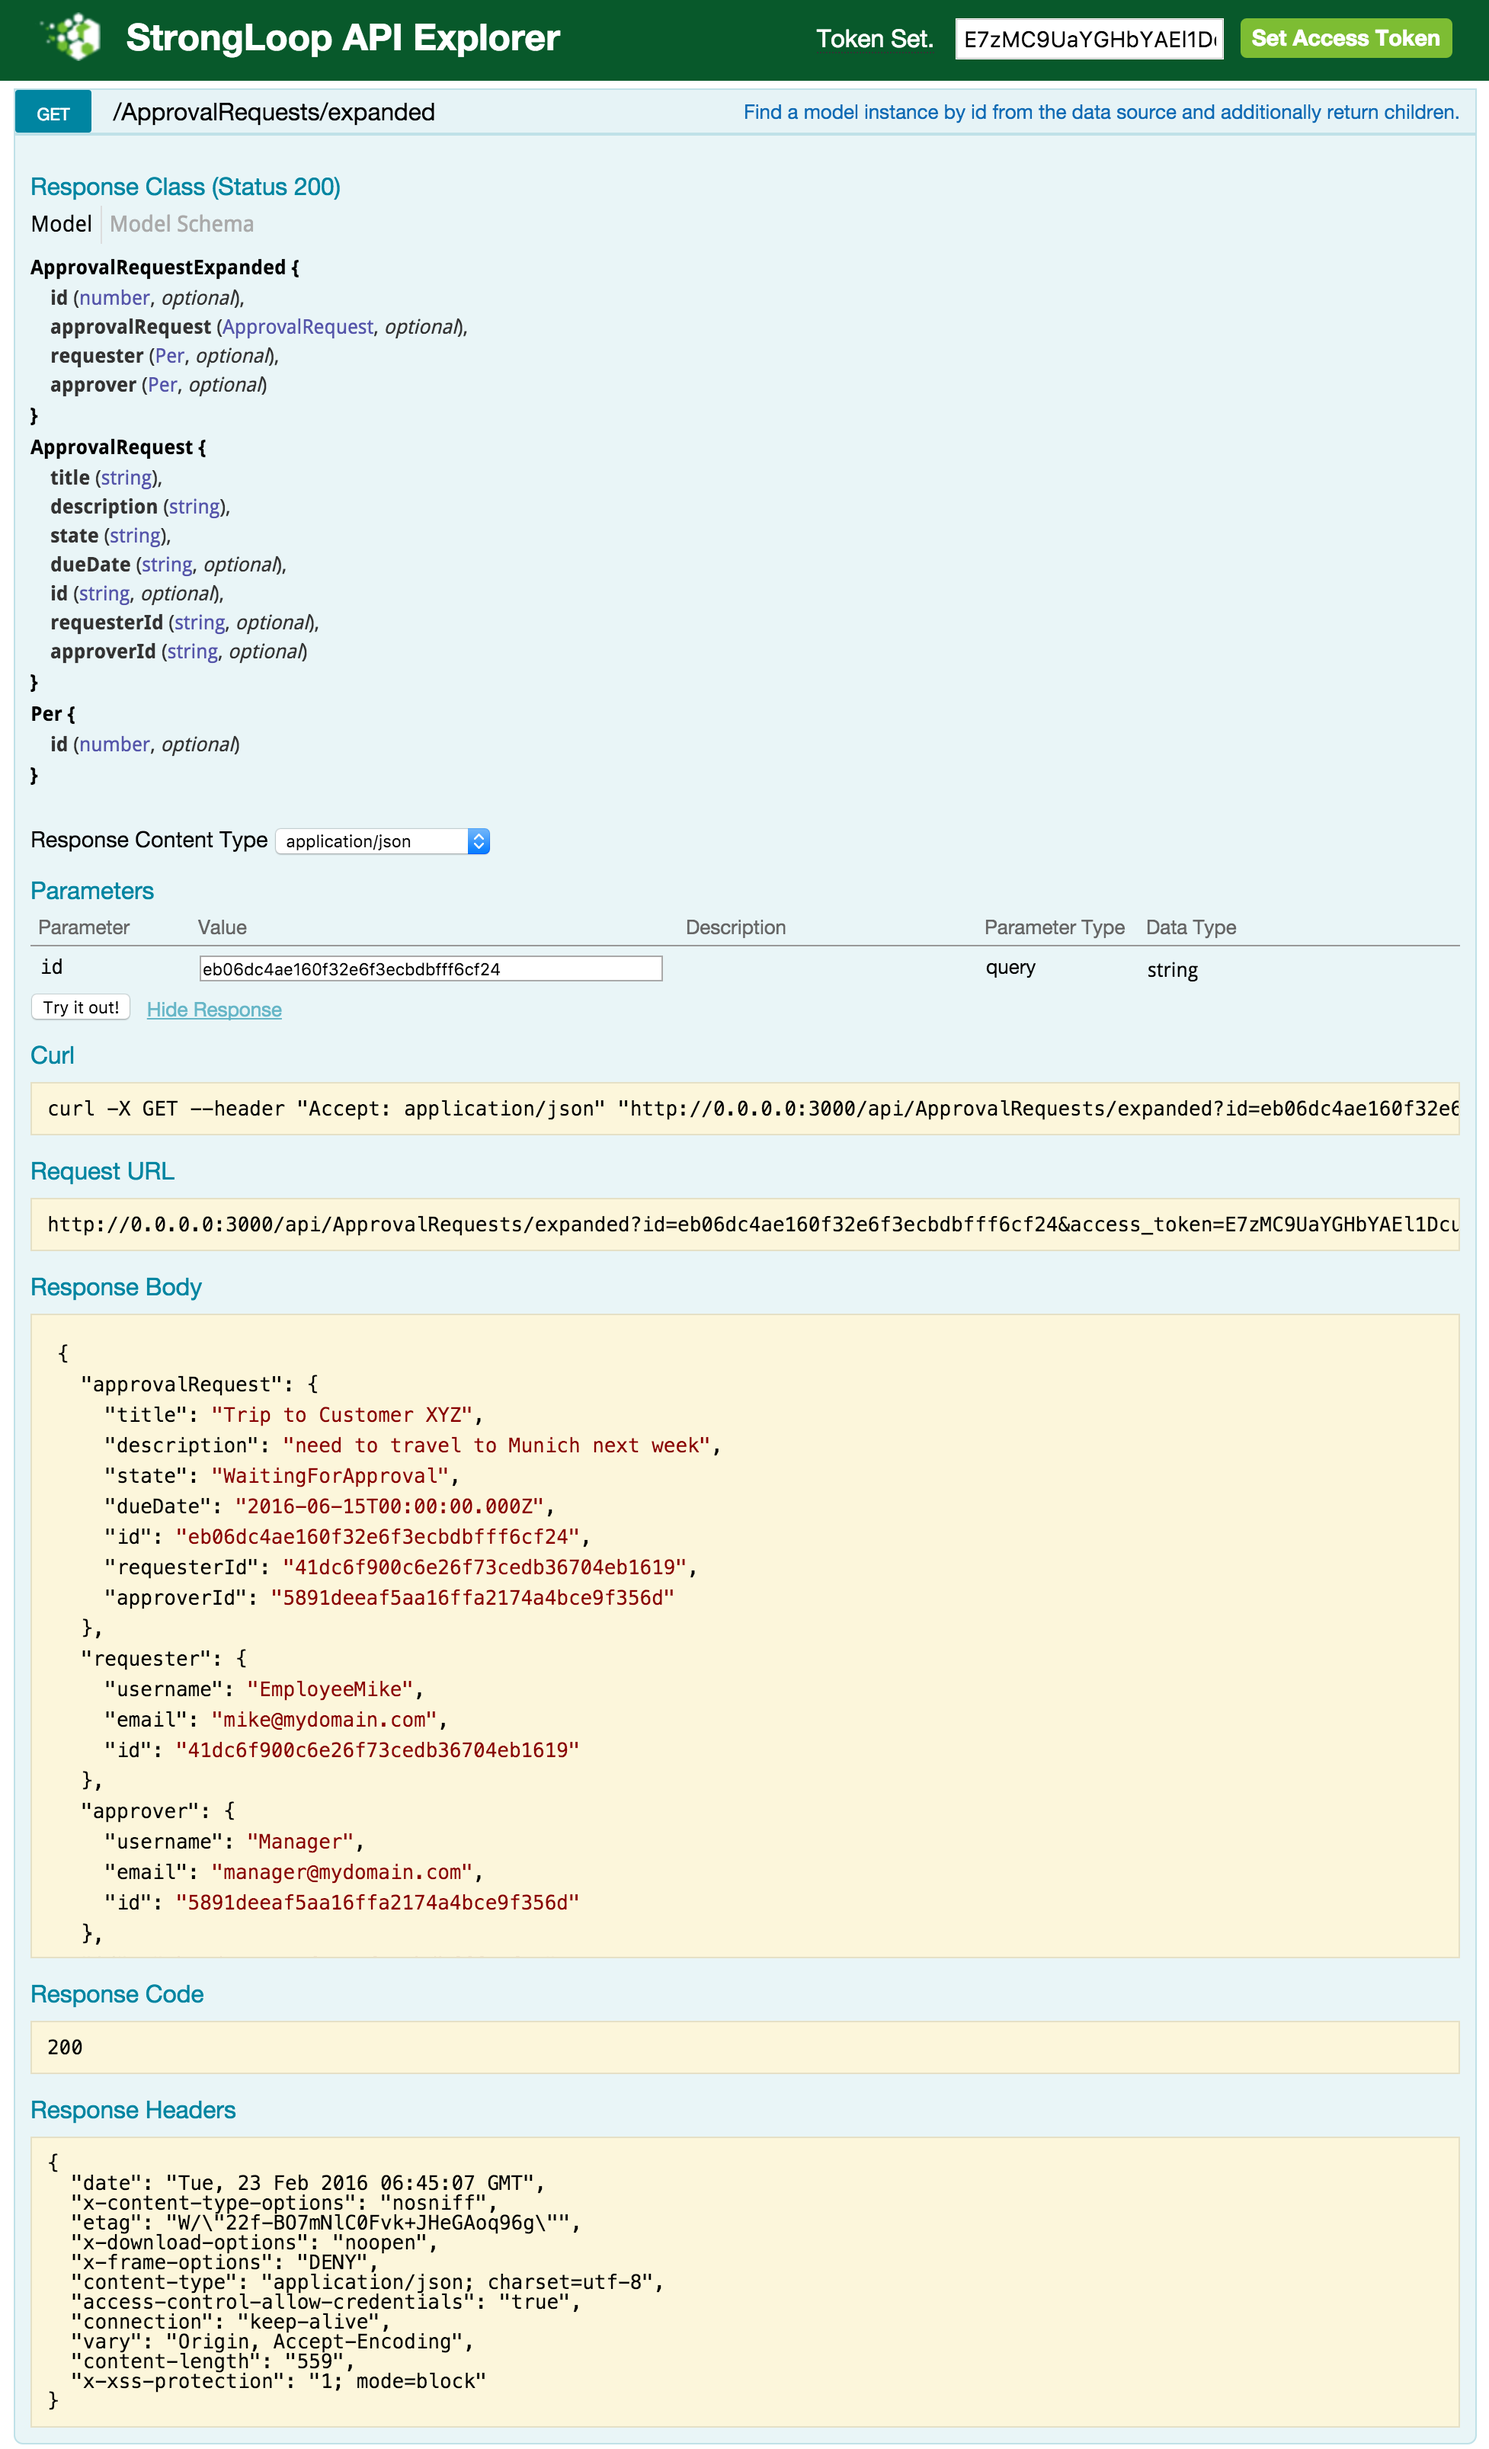
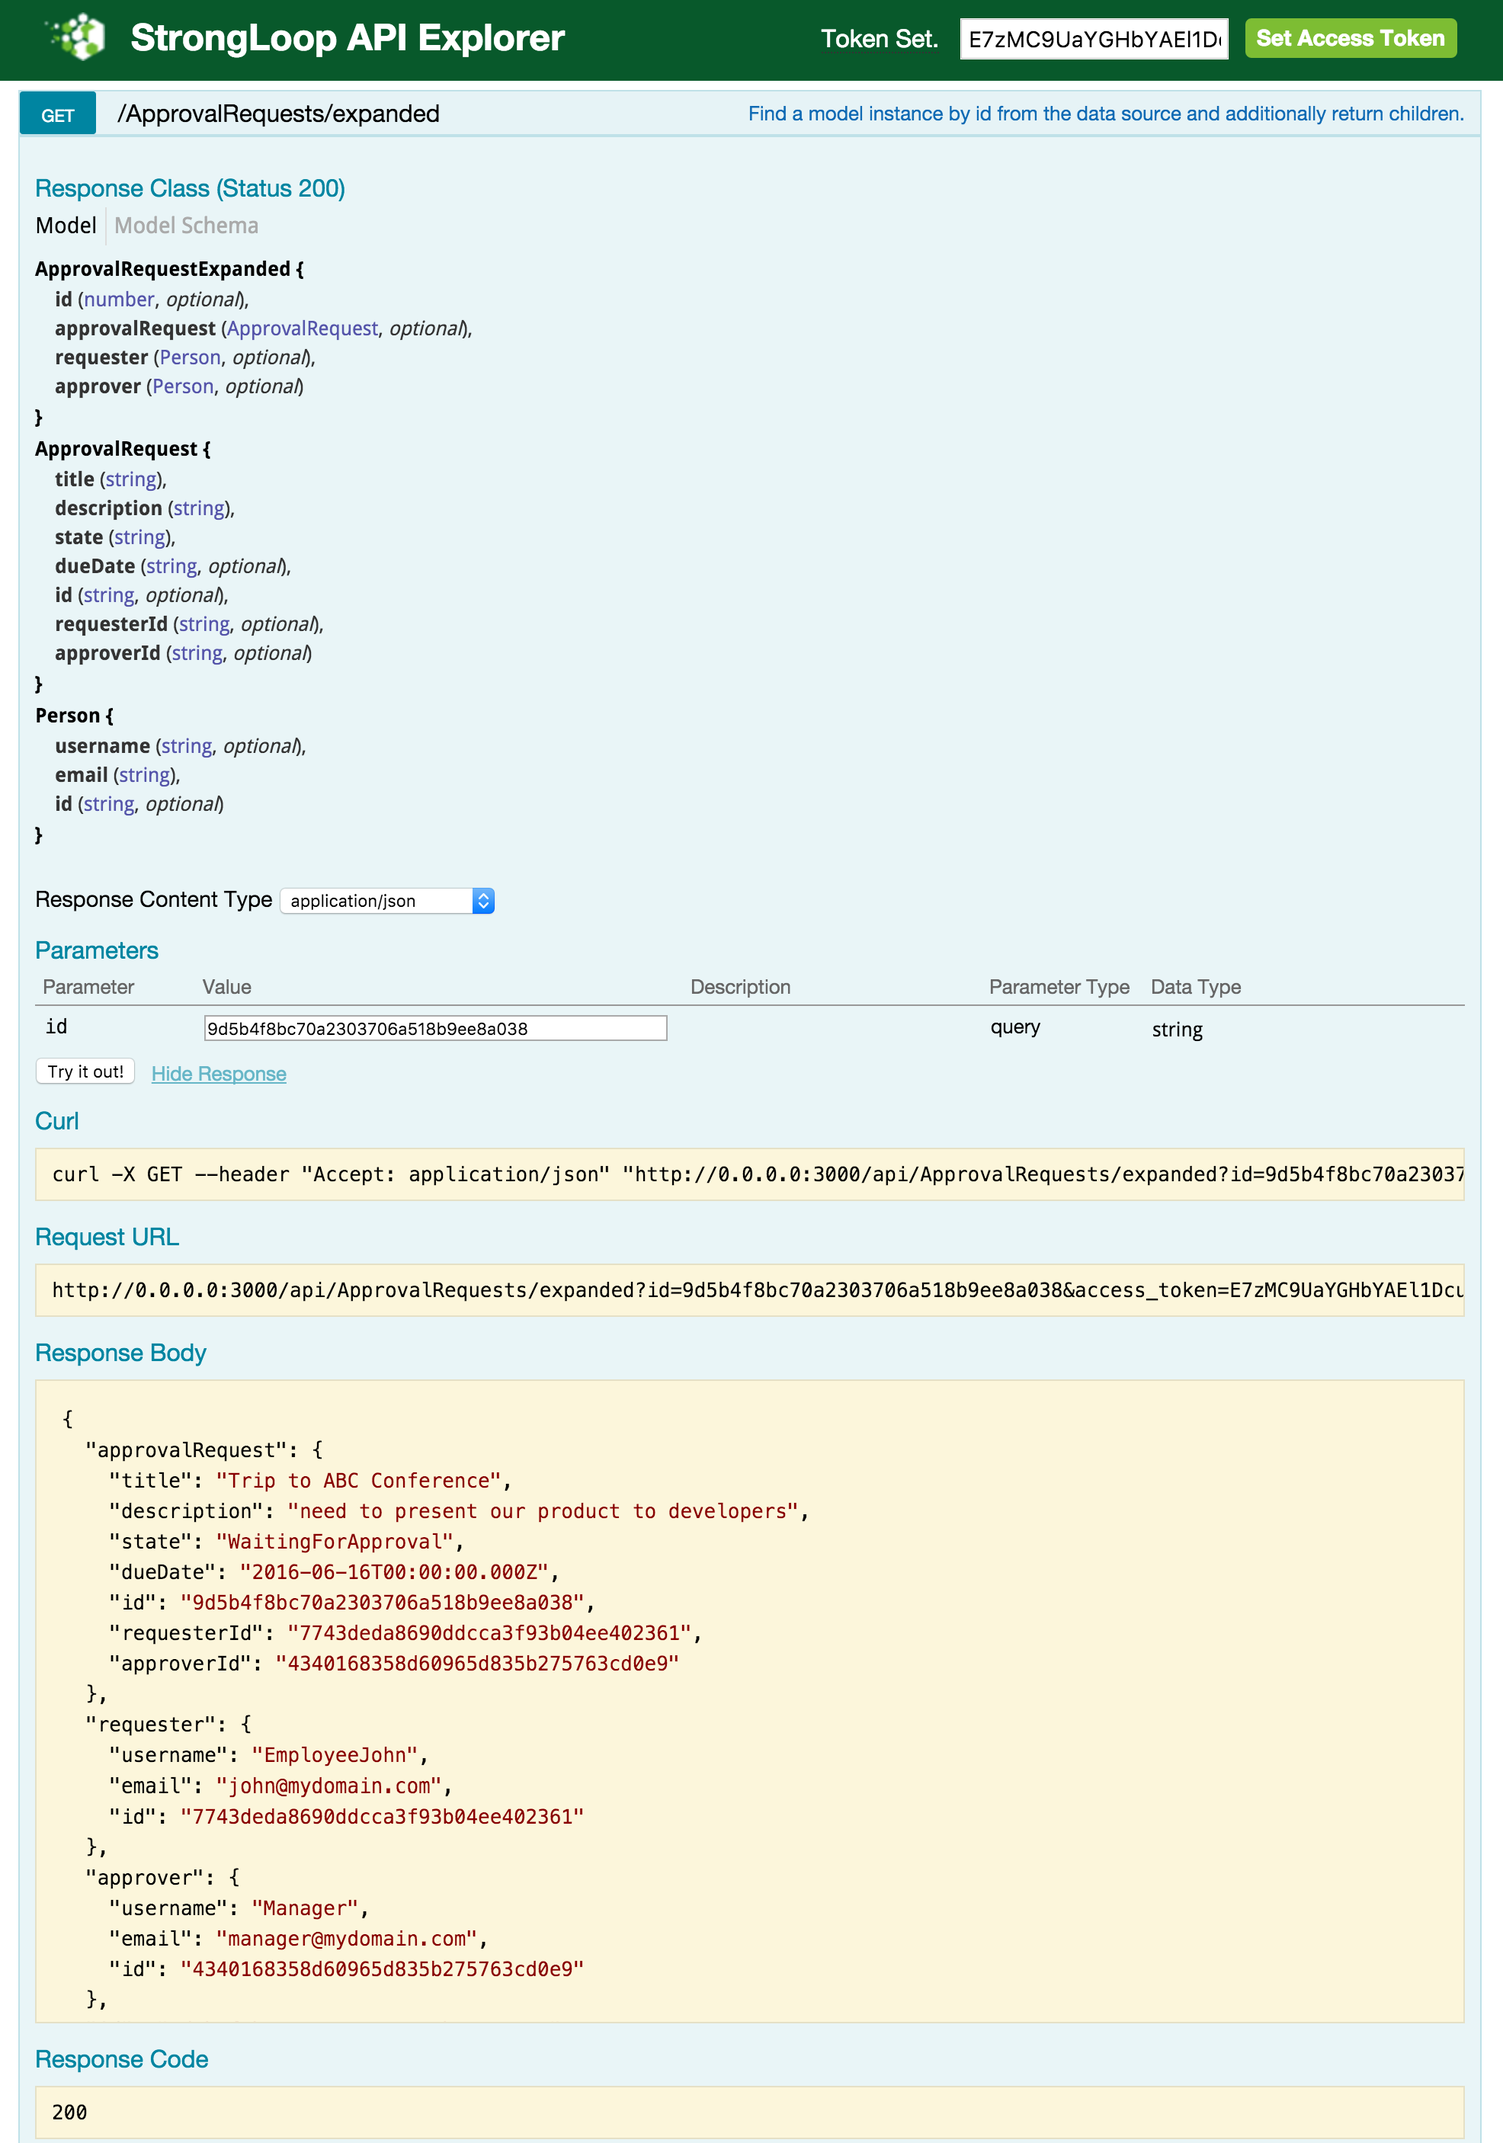
fixed defect

diff --git a/server/common/models/approval-request.js b/server/common/models/approval-request.js
@@ -97,12 +97,12 @@ module.exports = function(ApprovalRequest) {
   }
 
   var ds = loopback.createDataSource('memory');
-  var Per = ds.define('Per', app.models.Person);
+  var Person = ds.define('Person', app.models.Person);
   var ApprovalRequestExpandedModel = {
   	id: String,
 	approvalRequest: ApprovalRequest,
-	requester: Per,
-	approver: Per
+	requester: Person,
+	approver: Person
   };
   var ApprovalRequestExpanded = ds.define('ApprovalRequestExpanded', ApprovalRequestExpandedModel);
      
